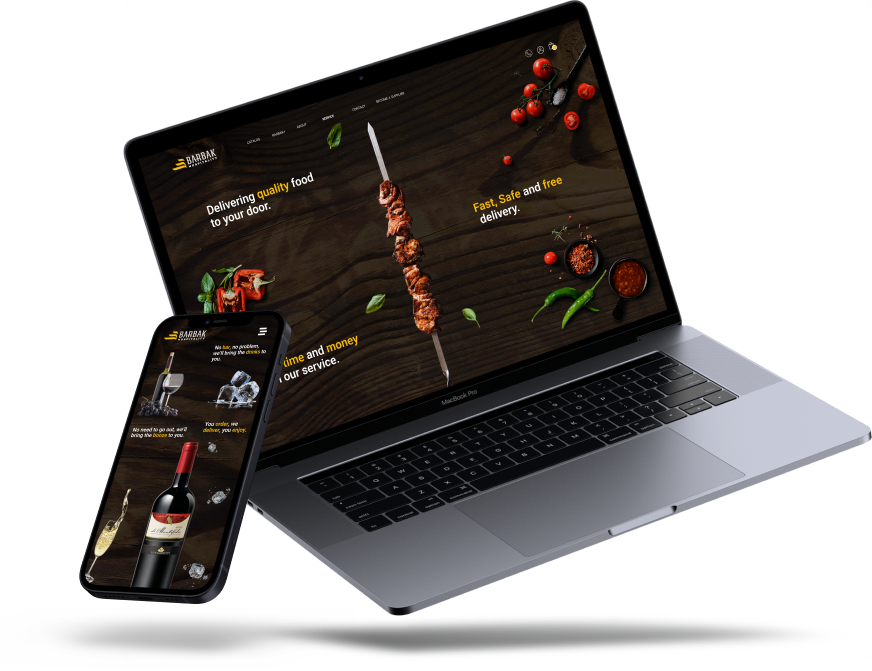
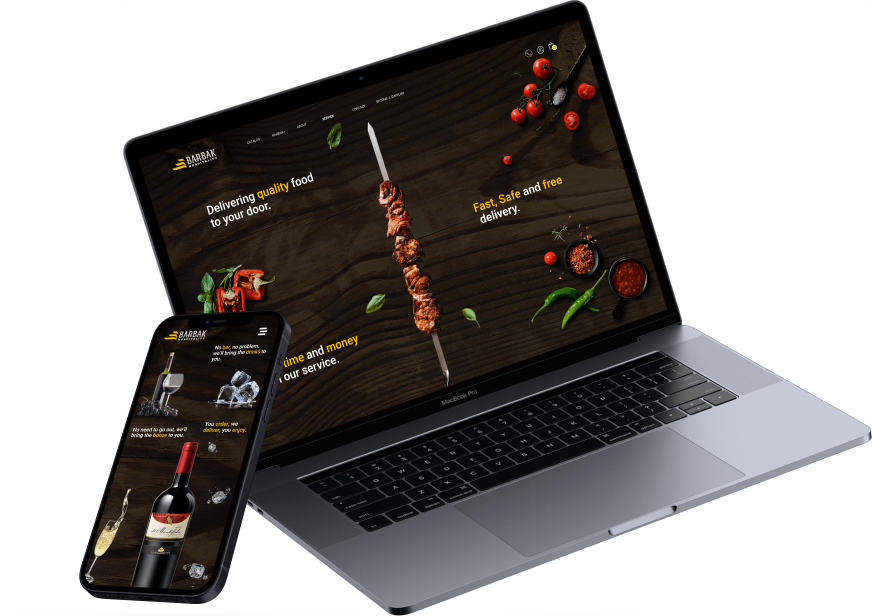
laptop animation

diff --git a/styles/globals.css b/styles/globals.css
@@ -85,3 +85,42 @@ body {
     transition: all 0.3s height 0.3s;
     transform-origin: top center;
   }
+
+
+  @-webkit-keyframes float {
+    0% {
+      filter: drop-shadow(5px 15px 8px #00000099);
+      transform: translatey(0px);
+    }
+    50% {
+      filter: drop-shadow(25px 15px 8px #00000033);
+      transform: translatey(-20px);
+    }
+    100% {
+      filter: drop-shadow(5px 15px 8px #00000099);
+      transform: translatey(0px);
+    }
+  }
+  
+  @keyframes float {
+    0% {
+      filter: drop-shadow(5px 15px 8px #00000099);
+      transform: translatey(0px);
+    }
+    50% {
+      filter: drop-shadow(25px 15px 8px #00000033);
+      transform: translatey(-20px);
+    }
+    100% {
+      filter: drop-shadow(5px 15px 8px #00000099);
+      transform: translatey(0px);
+    }
+  }
+
+  .laptop{
+    box-sizing: border-box;
+    filter: drop-shadow(5px 15px 8px #00000099);
+  transform: translatey(0px);
+  -webkit-animation: float 6s ease-in-out infinite;
+          animation: float 6s ease-in-out infinite;
+  }

diff --git a/components/Stats.js b/components/Stats.js
@@ -9,12 +9,13 @@ export default function Stats() {
   return (
     <div>
       <div className="mt-[120px] flex flex-row justify-center w-full px-[120px]">
-        <div className="w-full">
+        <div className="w-full laptop">
           <Image
             src={MacImg}
             alt="macbook and phone image"
             width={748}
             height={600}
+            
           />
         </div>
         <ScrollTrigger
